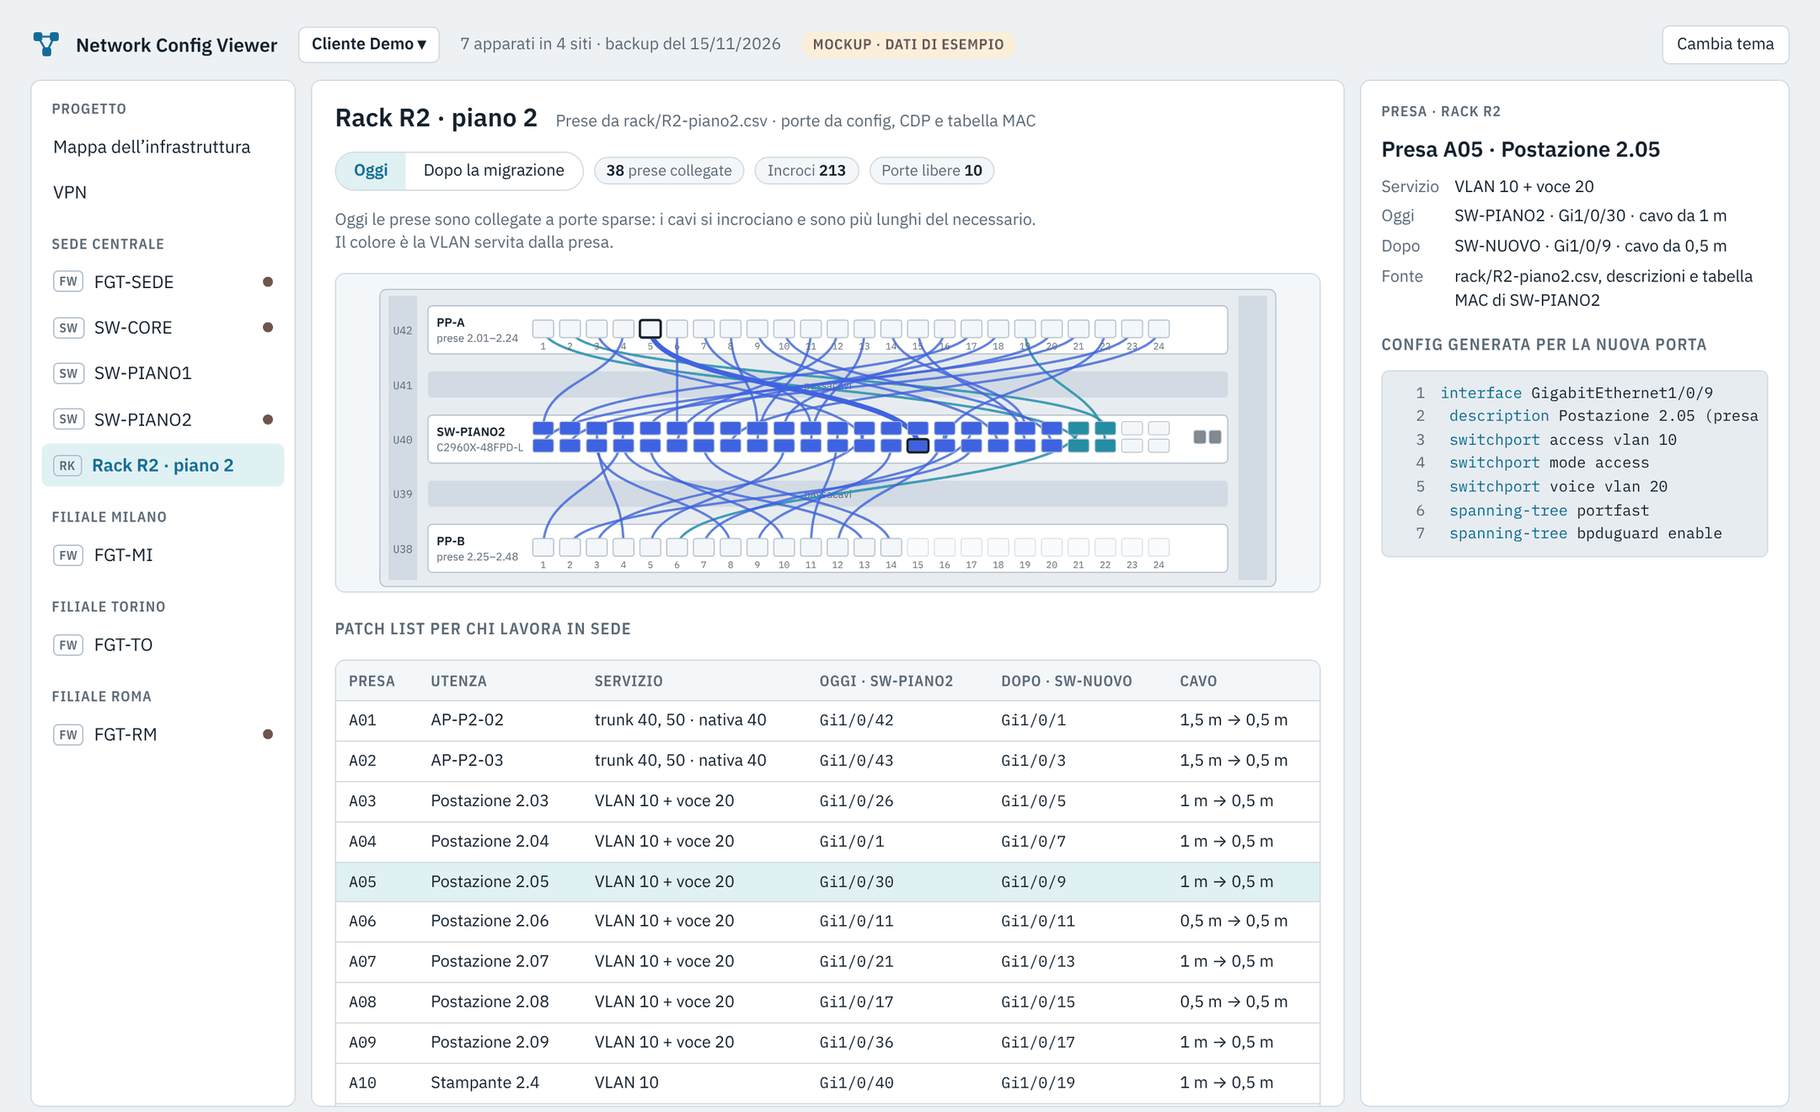
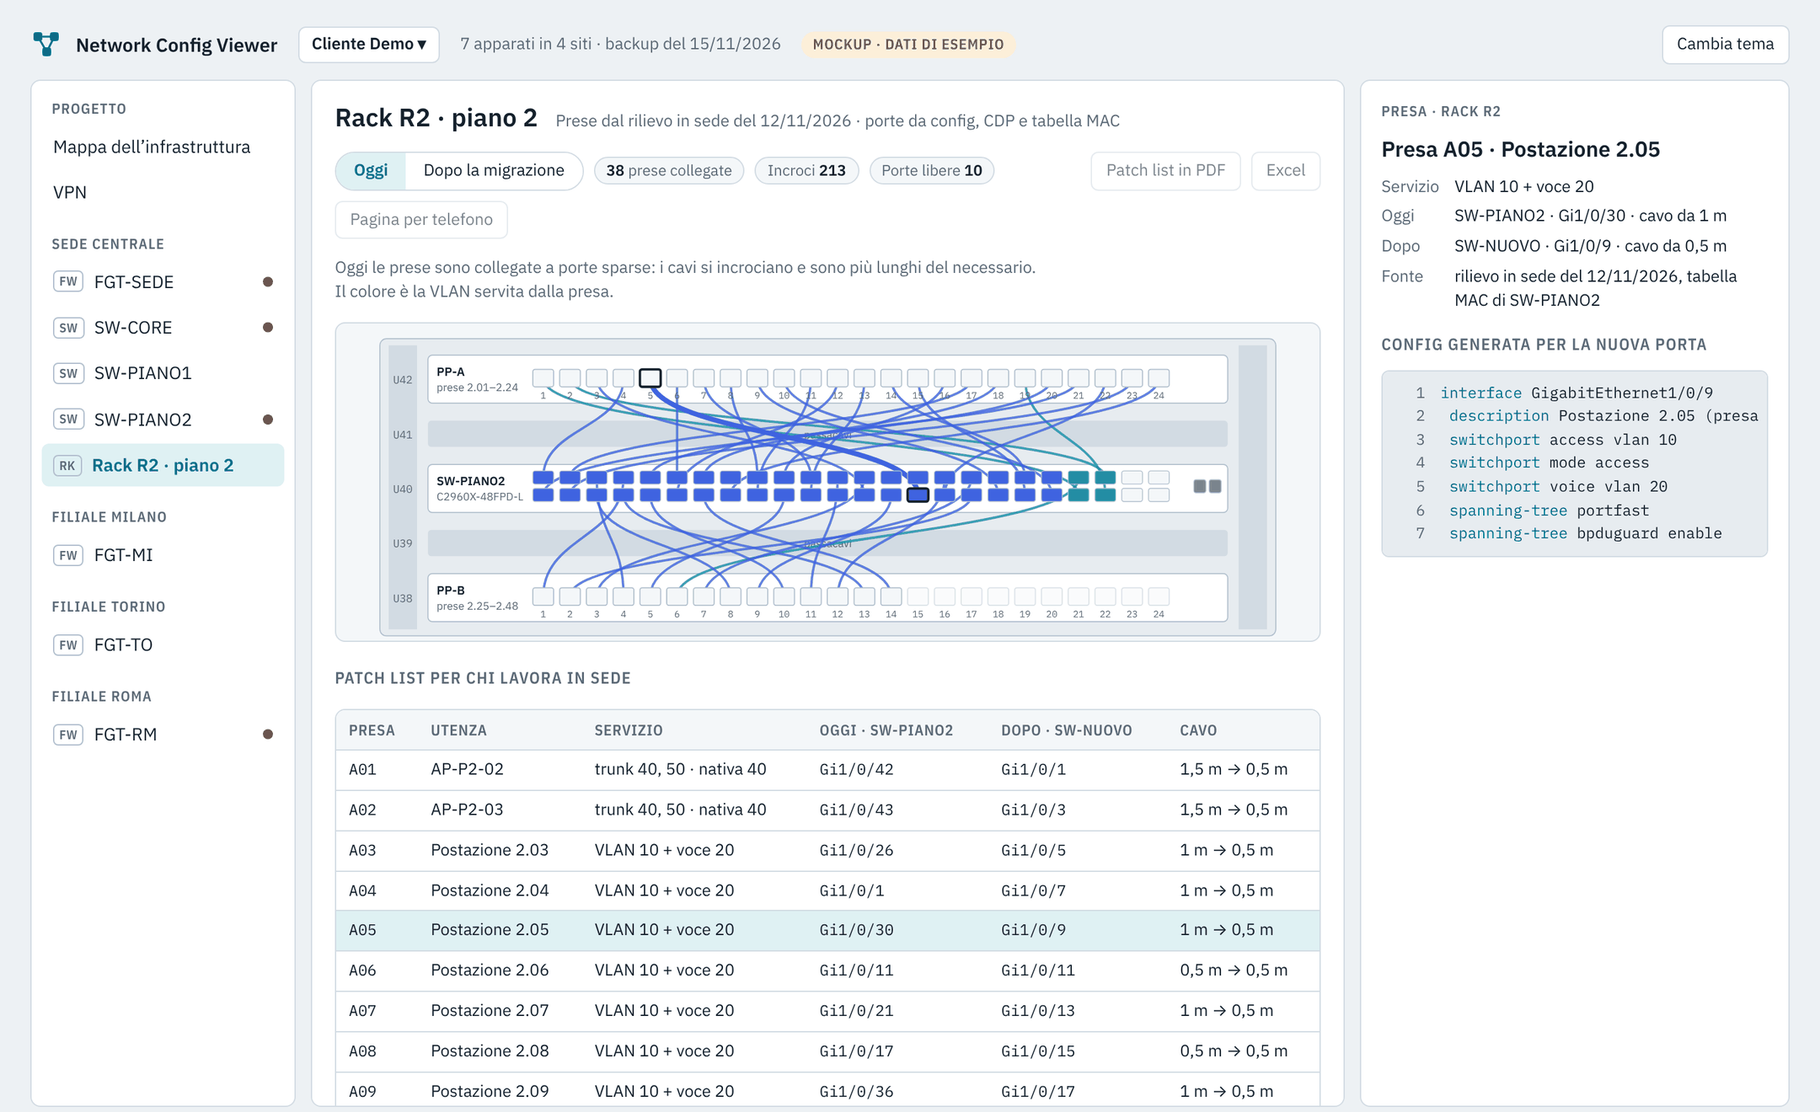
docs: aggiunge Ubiquiti, TP-Link, pfSense e OPNsense; rilievo prese
- Nuovi vendor nello studio: pfSense e OPNsense (config.xml), Ubiquiti
  EdgeRouter (comandi set) ed EdgeSwitch, TP-Link JetStream (CLI),
  UniFi e Omada (controller, via API come Meraki).
- pfSense e OPNsense anche come sorgenti delle migrazioni verso
  FortiGate, dopo ASA, Check Point, Sophos e Juniper.
- Prese e patch panel non documentati: rilievo in sede guidato da
  telefono, che resta come documentazione del cliente.
- Patch list in PDF, Excel e pagina da telefono con spunta.
- Mockup e screenshot del rack allineati.

Claude-Session: https://claude.ai/code/session_019CEh6HfsCTCgrDBUotXzh8

diff --git a/docs/mockup/index.html b/docs/mockup/index.html
@@ -339,7 +339,7 @@ tr.sel td{background:var(--accent-soft)}
 ├── Filiale Milano/
 ├── Filiale Torino/
 ├── Filiale Roma/
-├── rack/R2-piano2.csv   <i>prese e patch panel</i>
+├── rack/R2-piano2_rilievo.csv   <i>rilievo delle prese</i>
 └── progetto.json   <i>siti, collegamenti a mano, posizioni</i></pre>
         <button class="btn" type="button" disabled title="Non attivo nel mockup">Apri un’altra cartella</button>
       </div>
@@ -1176,17 +1176,18 @@ function viewRack(){
   const used = new Set(RACK.map(o => o[key]));
   const rows = RACK.map(o => `<tr class="click" data-outlet="${o.id}"><td class="mono">${o.id}</td><td>${esc(o.user)}</td><td>${esc(o.svc)}</td>
     <td class="mono">Gi1/0/${o.today}</td><td class="mono">Gi1/0/${o.plan}</td><td>${cableLen(o, 'today')} → ${cableLen(o, 'plan')}</td></tr>`).join('');
-  return `<div class="view-head"><h1>Rack R2 · piano 2</h1><span class="sub">Prese da rack/R2-piano2.csv · porte da config, CDP e tabella MAC</span></div>
+  return `<div class="view-head"><h1>Rack R2 · piano 2</h1><span class="sub">Prese dal rilievo in sede del 12/11/2026 · porte da config, CDP e tabella MAC</span></div>
     <div class="map-tools"><div class="mode-toggle" role="group" aria-label="Stato del rack">
       <button type="button" data-rackmode="oggi" aria-pressed="${!plan}">Oggi</button><button type="button" data-rackmode="dopo" aria-pressed="${plan}">Dopo la migrazione</button></div>
-      <span class="fact"><b>${RACK.length}</b> prese collegate</span><span class="fact">Incroci <b>${rackCrossings(key)}</b></span><span class="fact">Porte libere <b>${48 - used.size}</b></span></div>
+      <span class="fact"><b>${RACK.length}</b> prese collegate</span><span class="fact">Incroci <b>${rackCrossings(key)}</b></span><span class="fact">Porte libere <b>${48 - used.size}</b></span><span class="spacer"></span>
+      <button class="btn" type="button" disabled title="Non attivo nel mockup">Patch list in PDF</button><button class="btn" type="button" disabled title="Non attivo nel mockup">Excel</button><button class="btn" type="button" disabled title="Non attivo nel mockup">Pagina per telefono</button></div>
     <p class="lead">${plan
       ? 'Il nuovo switch prende il posto di SW-PIANO2. Ogni presa va sulla porta della stessa colonna, con cavi corti e dritti. La configurazione segue la presa: ogni porta nuova riceve le VLAN della porta vecchia che sostituisce.'
       : 'Oggi le prese sono collegate a porte sparse: i cavi si incrociano e sono più lunghi del necessario. Il colore è la VLAN servita dalla presa.'}</p>
     <div class="rack-wrap"><svg class="rack" viewBox="0 0 900 ${units.length * U + 40}" role="img" aria-label="Rack R2 con patch panel e switch">${body}${cables}${ports}</svg></div>
     <h3 class="sec">Patch list per chi lavora in sede</h3>
     <div class="table-wrap"><table><thead><tr><th>Presa</th><th>Utenza</th><th>Servizio</th><th>Oggi · SW-PIANO2</th><th>Dopo · SW-NUOVO</th><th>Cavo</th></tr></thead><tbody>${rows}</tbody></table></div>
-    <p class="hint">Dopo il cambio si caricano LLDP, tabella MAC e stato porte del nuovo switch: lo strumento controlla che ogni presa sia sulla porta prevista e segnala le differenze.</p>`;
+    <p class="hint">Il tecnico può aprire la lista sul telefono e spuntare ogni spostamento. Dopo il cambio si caricano LLDP, tabella MAC e stato porte del nuovo switch: lo strumento controlla che ogni presa sia sulla porta prevista e segnala le differenze.</p>`;
 }
 function detailOutlet(id){
   const o = RACK.find(x => x.id === id); if (!o) return '';
@@ -1197,7 +1198,7 @@ function detailOutlet(id){
     <dl class="kv"><dt>Servizio</dt><dd>${esc(o.svc)}</dd>
     <dt>Oggi</dt><dd>SW-PIANO2 · Gi1/0/${o.today} · cavo da ${cableLen(o, 'today')}</dd>
     <dt>Dopo</dt><dd>SW-NUOVO · Gi1/0/${o.plan} · cavo da ${cableLen(o, 'plan')}</dd>
-    <dt>Fonte</dt><dd>rack/R2-piano2.csv, descrizioni e tabella MAC di SW-PIANO2</dd></dl>
+    <dt>Fonte</dt><dd>rilievo in sede del 12/11/2026, tabella MAC di SW-PIANO2</dd></dl>
     <h3 class="sec">Config generata per la nuova porta</h3>${cfgBlock(L, 1)}`;
 }
 

diff --git a/docs/STUDIO.md b/docs/STUDIO.md
@@ -12,7 +12,7 @@
   Sulla stessa base lo strumento aiuta a preparare e verificare le migrazioni, comprese quelle degli switch pianificate sul rack da chi lavora da remoto.
 - **Come**: un'app web che gira **interamente nel browser**. I file vengono elaborati sul PC e non vengono mai caricati su un server. Più avanti si aggiunge un server opzionale per il lavoro in team e per leggere gli apparati in diretta via SSH/API.
 - **Primo traguardo (MVP)**: FortiGate e Cisco IOS/IOS-XE, prima apparato per apparato, poi messi insieme nella mappa dell'infrastruttura.
-- **Migrazioni**: arrivano dopo la parte di visualizzazione, su cui si appoggiano. Si parte da ASA, Check Point, Sophos e Juniper verso FortiGate, in config diretta o tramite FortiManager, con verifica automatica del risultato. Poi le migrazioni switch, pianificate sul rack con la patch list per i tecnici in sede.
+- **Migrazioni**: arrivano dopo la parte di visualizzazione, su cui si appoggiano. Si parte da ASA, Check Point, Sophos e Juniper verso FortiGate (poi pfSense e OPNsense), in config diretta o tramite FortiManager, con verifica automatica del risultato. Poi le migrazioni switch, pianificate sul rack con la patch list per i tecnici in sede.
 - **Licenza**: open source, MIT.
 - **Chi scrive il codice**: Claude. Tu definisci le priorità, fornisci config di esempio e provi le versioni.
 
@@ -25,11 +25,11 @@
 | Obiettivo principale | Visualizzare l'infrastruttura del cliente: più apparati insieme, con VPN, SD-WAN, BGP/routing e switch. Non solo convertire config |
 | Utenti | All'inizio uso personale in locale, poi il team |
 | Avvio in locale | Nel browser, senza installazione |
-| Marche da supportare nel tempo | FortiGate, FortiManager, Cisco IOS/IOS-XE/NX-OS, Cisco ASA, Aruba/HPE switch (AOS-CX, ArubaOS-Switch, Comware), wireless Aruba e Meraki, Check Point, Juniper, Sophos |
+| Marche da supportare nel tempo | FortiGate, FortiManager, Cisco IOS/IOS-XE/NX-OS, Cisco ASA, Aruba/HPE switch (AOS-CX, ArubaOS-Switch, Comware), wireless Aruba e Meraki, Check Point, Juniper, Sophos, Netgate pfSense, OPNsense, Ubiquiti (UniFi, EdgeRouter, EdgeSwitch), TP-Link (Omada, JetStream) |
 | Primo firewall | FortiGate |
 | Primo switch | Cisco IOS/IOS-XE |
 | Casi d'uso | Tutti: visualizzazione, migrazione switch, migrazione firewall, in sequenza (vedi [Roadmap](#11-roadmap)) |
-| Migrazioni firewall | Tutte le sorgenti verso FortiGate: ASA, Check Point, Sophos, Juniper |
+| Migrazioni firewall | Tutte le sorgenti verso FortiGate: prima ASA, Check Point, Sophos e Juniper, poi pfSense e OPNsense |
 | Destinazioni delle migrazioni | FortiGate, Aruba (CX/AP), Cisco, Meraki |
 | FortiConverter | Insufficiente (qualità scarsa, nessun supporto switch): la conversione la facciamo noi, con verifica integrata |
 | FortiManager | Sia in lettura (template e policy package esistenti) sia in generazione |
@@ -39,6 +39,8 @@
 | Collegamenti tra apparati | Verificati con LLDP/CDP, dedotti da descrizioni e indirizzi, oppure inseriti a mano; le differenze tra le fonti vengono segnalate |
 | VPN | Anche ADVPN: ruoli, controlli e scorciatoie tra filiali |
 | Migrazioni switch | Pianificate sul rack con i patch panel, per gestire i cablaggi da remoto; arrivano dopo la visualizzazione |
+| Prese e patch panel | Oggi i clienti non li documentano: si parte da un rilievo in sede guidato dallo strumento, che poi resta come documentazione |
+| Patch list | In tre forme: PDF da stampare per rack, Excel, pagina da telefono con spunta |
 | Config reali per lo sviluppo | Disponibili: arrivano dopo l'anonimizzatore (fase 0), in una repo privata separata |
 | Licenza | Open source, MIT |
 | Codice | Scritto da Claude: lo stack si sceglie per semplicità d'uso, non per familiarità |
@@ -88,12 +90,12 @@ flowchart LR
 
    | Famiglia di sintassi | Marche |
    |---|---|
-   | Indentazione | Cisco IOS/IOS-XE/NX-OS/ASA, Aruba AOS-CX, ArubaOS-Switch, Aruba Instant/controller |
+   | Indentazione | Cisco IOS/IOS-XE/NX-OS/ASA, Aruba AOS-CX, ArubaOS-Switch, Aruba Instant/controller, TP-Link JetStream, Ubiquiti EdgeSwitch |
    | Blocchi `config / edit / set / next / end` | FortiOS (FortiGate), script e template CLI di FortiManager |
    | Blocchi separati da `#` + indentazione | HPE Comware |
-   | Graffe o comandi `set` | Juniper Junos |
-   | JSON | Check Point (ShowPolicyPackage), Meraki, API FortiManager |
-   | XML | Sophos Firewall |
+   | Graffe o comandi `set` | Juniper Junos, Ubiquiti EdgeRouter (EdgeOS), VyOS |
+   | JSON | Check Point (ShowPolicyPackage), Meraki, UniFi, Omada, API FortiManager |
+   | XML | Sophos Firewall, pfSense, OPNsense |
 
 2. **Driver di marca**: legge l'albero e popola il modello neutro, conoscendo default, nomi delle interfacce e particolarità di ogni versione.
 
@@ -112,8 +114,16 @@ Così il lavoro sulla sintassi si fa una volta per famiglia, e ogni nuova marca 
 | Juniper (SRX, EX) | `show configuration \| display set` | comandi `set` |
 | Check Point | ShowPolicyPackage sul Management Server (tar.gz con JSON), più `show configuration` di Gaia per interfacce e rotte dei gateway | JSON + testo |
 | Sophos Firewall | Backup & firmware → Import export → configurazione completa | .tar con `Entities.xml` |
+| pfSense (Netgate) | Diagnostics → Backup & Restore → scarica la configurazione | `config.xml` |
+| OPNsense | System → Configuration → Backups → scarica la configurazione | `config.xml` |
+| Ubiquiti EdgeRouter, VyOS | `show configuration commands` | comandi `set` |
+| Ubiquiti EdgeSwitch, TP-Link JetStream | `show running-config` | testo |
 | Meraki | Dashboard API (fase server) | JSON |
+| Ubiquiti UniFi | API del controller (fase server); il backup del controller è da valutare | JSON |
+| TP-Link Omada | API del controller Omada (fase server); il backup del controller è da valutare | JSON |
 | Aruba AP | Instant: `show running-config`; controller AOS 8: config del controller; Central: API | testo / JSON |
+
+**Apparati gestiti da controller** (Meraki, UniFi, Omada). La configurazione non sta nei singoli apparati ma nel controller, che si interroga via API: per questo arrivano con il server (fase 6). In cambio il controller conosce già la topologia (a cosa è collegato ogni apparato) e lo stato delle porte, quindi la mappa si costruisce anche senza LLDP. Valuteremo se i file di backup dei controller permettono di anticiparli.
 
 ### Comandi show utili
 
@@ -201,6 +211,8 @@ Elenco dei tunnel di tutto il progetto con i due estremi abbinati, e per ciascun
 - IKE, proposte, gruppi DH, PFS, durate;
 - selettori di fase 2, ADVPN, IP del tunnel.
 
+Oltre a IPsec, anche WireGuard (i due lati si abbinano con le chiavi pubbliche) e OpenVPN, usati da pfSense, OPNsense e UniFi.
+
 Le topologie hub & spoke sono riconosciute. I tunnel verso peer che non fanno parte del progetto (partner, cloud) sono segnalati come "un solo lato".
 
 **ADVPN**, per le reti hub & spoke in cui le filiali aprono tunnel diretti tra loro:
@@ -227,7 +239,7 @@ Per ogni FortiGate:
 
   In fondo c'è la regola implicita.
 
-Sulla mappa, gli overlay SD-WAN collegano filiali e hub.
+Sulla mappa, gli overlay SD-WAN collegano filiali e hub. Le stesse viste valgono per il multi-WAN degli altri vendor, per esempio i gateway group di pfSense e OPNsense.
 
 ### 5.4 Routing e BGP
 
@@ -268,6 +280,7 @@ Tabella in stile GUI FortiGate:
 - **Ricerca** testuale e **per IP**: trova le regole che coinvolgono 10.30.0.15, anche tramite subnet, gruppi e "all".
 - **Avvisi**: regole oscurate, disabilitate, senza log, any-any, con sorgente "all" su servizi di gestione.
 - **Viste collegate**: VIP/NAT, IP pool, interfacce e zone, rotte statiche.
+- **Altri vendor**: la vista segue il modello di ognuno. Per esempio pfSense e OPNsense hanno regole per interfaccia d'ingresso, con le regole floating valutate per prime.
 
 ### 5.8 ACL degli switch
 
@@ -287,7 +300,12 @@ Hostname, modello, versione, IP di gestione, conteggi (interfacce, VLAN, policy,
 
 - Fronte del rack con patch panel, switch e passacavi nelle loro posizioni (U).
 - Ogni presa collegata alla sua porta, con il colore della VLAN che serve. Cliccando una presa si vede cosa c'è dall'altra parte: utenza, porta, VLAN, telefono o PC (dalla tabella MAC).
-- **Da dove arrivano i dati**: le porte dalle config e dagli show; prese e patch panel da un file dell'installatore (CSV o Excel), dalle descrizioni delle porte oppure inseriti a mano. In futuro anche da NetBox.
+- **Da dove arrivano i dati**: le porte dalle config e dagli show. Prese e patch panel oggi non sono documentati, quindi si parte da un **rilievo in sede** guidato dallo strumento:
+  - una pagina da telefono elenca le prese di ogni patch panel; per ciascuna il tecnico indica la porta dello switch, oppure "libera";
+  - lo strumento propone le corrispondenze probabili e mostra cosa c'è su ogni porta (telefono, PC, AP, dalla tabella MAC e da LLDP), così il tecnico conferma invece di scrivere;
+  - con la lettura live (fase 6) basterà staccare e riattaccare un cavo alla volta: lo strumento riconosce da solo la porta che cambia stato;
+  - il rilievo resta nella cartella del cliente come documentazione per le volte successive.
+- Quando esistono, si possono importare anche file dell'installatore (CSV o Excel) o dati da NetBox.
 - È la base per le migrazioni switch pianificate da remoto (vedi 7.3).
 
 ## 6. Analisi
@@ -319,7 +337,7 @@ Hostname, modello, versione, IP di gestione, conteggi (interfacce, VLAN, policy,
 
 ### 7.2 Firewall verso FortiGate
 
-**Sorgenti**: tutte, cioè ASA, Check Point, Sophos e Juniper. Ordine proposto, salvo diverse priorità: ASA (testo, la più diffusa), Check Point, Sophos, Juniper.
+**Sorgenti**: tutte. Ordine: ASA (testo, la più diffusa), Check Point, Sophos, Juniper, poi pfSense e OPNsense.
 
 **Perché non basta FortiConverter.** Fortinet ha un tool ufficiale per questa migrazione, [FortiConverter](https://docs.fortinet.com/document/forticonverter/7.0.3/online-help/220359), ma l'esperienza sul campo è che la qualità del risultato non basta e che non copre gli switch. La conversione quindi la facciamo noi, con queste caratteristiche:
 
@@ -340,6 +358,7 @@ Hostname, modello, versione, IP di gestione, conteggi (interfacce, VLAN, policy,
 - **ASA**: le ACL sono applicate all'interfaccia d'ingresso, mentre il FortiGate vuole sia l'interfaccia di ingresso **sia** quella di uscita. Quella di uscita va ricavata dalla tabella di routing, e una regola può dover essere divisa in più policy. Il NAT (object NAT e twice NAT) va tradotto in VIP, IP pool o central NAT. Le VPN basate su crypto map diventano VPN basate su interfaccia.
 - **Check Point**: layer e inline layer, regole implicite, oggetti dinamici. Inoltre la policy sta sul Management Server, mentre le interfacce stanno sui gateway.
 - **Sophos**: tipi di regola diversi (rete, utente, WAF) e oggetti propri.
+- **pfSense e OPNsense**: come per ASA, le regole sono per interfaccia d'ingresso e quella di uscita va ricavata dal routing. Gli alias diventano oggetti, i port forward diventano VIP, i gateway group diventano SD-WAN. I tunnel WireGuard e OpenVPN vanno ripensati come IPsec.
 - **In generale**: limiti di lunghezza e di caratteri nei nomi, mappatura dei servizi predefiniti, schedule, utenti e gruppi.
 
 Una volta pronti lettore e generatore FortiOS, anche il **refresh FortiGate → FortiGate** (modello nuovo, interfacce rimappate) arriva quasi gratis.
@@ -350,11 +369,12 @@ Arrivano dopo la parte di visualizzazione, su cui si appoggiano (lettori, modell
 
 - Refresh Cisco (per esempio Catalyst 2960/3750/3850 → 9200/9300) e Cisco → Aruba AOS-CX, compresa la traduzione vPC → VSX, port-security e 802.1X.
 - **Pianificazione sul rack**, pensata per chi gestisce i cablaggi da remoto:
-  1. si posiziona il nuovo switch nel rack;
-  2. lo strumento propone il cablaggio migliore: ogni presa sulla porta della stessa colonna, con cavi corti e senza incroci (oppure raggruppati per VLAN, se si preferisce);
-  3. la configurazione segue la presa: ogni porta nuova riceve VLAN, voce, 802.1X e descrizione della porta vecchia che sostituisce;
-  4. escono la config del nuovo switch e la **patch list** per i tecnici in sede, divisa per rack ("presa A05: dalla Gi1/0/30 del vecchio switch alla Gi1/0/9 del nuovo, cavo da 0,5 m");
-  5. dopo il cambio si caricano LLDP, tabella MAC e stato porte del nuovo switch: lo strumento verifica che ogni presa sia finita sulla porta prevista e segnala le differenze.
+  1. se prese e patch panel non sono documentati, si parte dal rilievo in sede (vedi 5.11);
+  2. si posiziona il nuovo switch nel rack;
+  3. lo strumento propone il cablaggio migliore: ogni presa sulla porta della stessa colonna, con cavi corti e senza incroci (oppure raggruppati per VLAN, se si preferisce);
+  4. la configurazione segue la presa: ogni porta nuova riceve VLAN, voce, 802.1X e descrizione della porta vecchia che sostituisce;
+  5. escono la config del nuovo switch e la **patch list** per i tecnici in sede, divisa per rack ("presa A05: dalla Gi1/0/30 del vecchio switch alla Gi1/0/9 del nuovo, cavo da 0,5 m"), in tre forme: PDF da stampare, Excel e pagina da telefono dove il tecnico spunta ogni spostamento;
+  6. dopo il cambio si caricano LLDP, tabella MAC e stato porte del nuovo switch: lo strumento verifica che ogni presa sia finita sulla porta prevista e segnala le differenze.
 - Consolidamento di più switch su uno stack, con la stessa logica.
 
 ![Lo stesso rack dopo la migrazione pianificata: nuovo switch, cavi dritti e patch list per i tecnici](img/mockup-rack-dopo.png)
@@ -445,30 +465,30 @@ Ogni fase si chiude con qualcosa che puoi aprire e provare. L'ordine delle fasi 
 - **Risultato**: risposte del tipo "questo traffico passa?" e report di pulizia.
 
 ### Fase 4: altri firewall e conversione verso FortiGate
-- Lettori ASA, Check Point, Sophos e Juniper, con le stesse viste e presenti nella mappa.
+- Lettori ASA, Check Point, Sophos e Juniper, poi pfSense, OPNsense e Ubiquiti EdgeRouter, con le stesse viste e presenti nella mappa.
 - Conversione verso FortiGate (FortiOS e FortiManager) con verifica integrata; lettura dei template CLI FortiManager.
 - **Risultato**: config FortiGate generata, verificata e accompagnata dal report.
 
 ### Fase 5: altri switch e migrazioni switch
-- Lettori NX-OS (vPC), AOS-CX (VSX), ArubaOS-Switch, Comware, Aruba Instant.
-- Vista rack con patch panel (prese da file CSV/Excel o inserite a mano).
+- Lettori NX-OS (vPC), AOS-CX (VSX), ArubaOS-Switch, Comware, Aruba Instant, TP-Link JetStream, Ubiquiti EdgeSwitch.
+- Vista rack con patch panel e rilievo in sede guidato da telefono (oppure import da CSV/Excel o NetBox).
 - Pianificazione del cablaggio sul rack, mappatura porte con consolidamento, generatori AOS-CX e IOS-XE, traduzione vPC → VSX, frontali realistici.
-- Patch list per rack e verifica dopo il cambio con LLDP, tabella MAC e stato porte.
+- Patch list per rack in PDF, Excel e pagina da telefono con spunta; verifica dopo il cambio con LLDP, tabella MAC e stato porte.
 - **Risultato**: config del nuovo switch, patch list per i tecnici e controllo del lavoro fatto in sede.
 
 ### Fase 6: server per il team e lettura live
 - La stessa app su un server (Docker), con progetti condivisi e utenti.
-- Lettura via SSH/API: FortiGate, FortiManager (policy package), Meraki, Aruba Central, Cisco.
-- Meraki e wireless come sorgenti e destinazioni delle migrazioni.
+- Lettura via SSH/API: FortiGate, FortiManager (policy package), Meraki, UniFi, Omada, Aruba Central, Cisco.
+- Apparati gestiti da controller (Meraki, UniFi, Omada) e wireless nella mappa e nelle viste; Meraki anche come destinazione delle migrazioni.
+- Rilievo delle prese assistito dalla lettura live: si stacca un cavo e lo strumento riconosce la porta.
 - **Risultato**: lo strumento usato dal team, con import diretto dagli apparati.
 
 ## 12. Domande aperte
 
-1. **Prese e patch panel**: come sono documentati oggi presso i tuoi clienti? Excel o CSV dell'installatore, descrizioni delle porte, NetBox, niente? Da qui dipende come alimentare la vista rack.
-2. **Patch list**: in che forma la vuoi dare ai tecnici in sede? PDF da stampare, Excel, pagina da aprire sul telefono?
-3. **Modelli hardware più frequenti** (Catalyst e FortiGate), per dare priorità ai frontali realistici.
-4. **Wireless**: quali piattaforme usi (Aruba Instant, controller AOS 8, Central/AOS 10, Meraki MR)?
-5. **Lingua dell'interfaccia**: va bene l'italiano, con l'inglese in un secondo momento?
+1. **UniFi e Omada**: i controller dei tuoi clienti sono locali (Cloud Key, UDM, OC200, software su un server) o in cloud? Cambia il modo di leggerli.
+2. **Modelli hardware più frequenti** (Catalyst, FortiGate, UniFi, JetStream), per dare priorità ai frontali realistici.
+3. **Wireless**: quali piattaforme usi (Aruba Instant, controller AOS 8, Central/AOS 10, Meraki MR, UniFi, Omada)?
+4. **Lingua dell'interfaccia**: va bene l'italiano, con l'inglese in un secondo momento?
 
 ## Riferimenti
 
